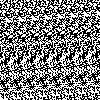
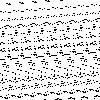
Continue 18.1

diff --git a/2015/18/likeAGifForYourYard.py b/2015/18/likeAGifForYourYard.py
@@ -1,17 +1,40 @@
 from PIL import Image
 import numpy as np
+from functools import reduce
+
+def isMarked(i, j, arr):
+    return i < 100 and j < 100 and i > -1 and j > -1 and arr[i][j] == "."
 
 def iteration(arr):
+    next = []
     for i in range(len(arr)):
+        nextl = ""
         for j in range(len(arr)):
-            
+            count = 0
+            for x in range(-1, 2):
+                for y in range(-1, 2):
+                    if x == 0 and y == 0:
+                        continue
+                    count = count + isMarked(i - x, j - y, arr)
+            current = isMarked(i, j, arr)
+            if (current and (count == 2 or count == 3)) or (not current and count == 3):
+                nextl = nextl + "."
+            else:
+                nextl = nextl + "#"
+        next.append(nextl)
+    return next
 
-filename = "input.txt"
+filename = "/home/chris/dev/adventOfCode/2015/18/input.txt"
 
 with open(filename, "r") as inputData:
     content: str = [x.replace("\n", "") for x in inputData.readlines()]
 
-print(content[50][50])
+for i in range(100):
+    content = iteration(content)
+    print(content)
+
+result = sum([reduce(lambda x,y: x + (1 if y == "#" else 0), line, 0) for line in content])
+print(result)
 
 bol = []
 for x in content:
